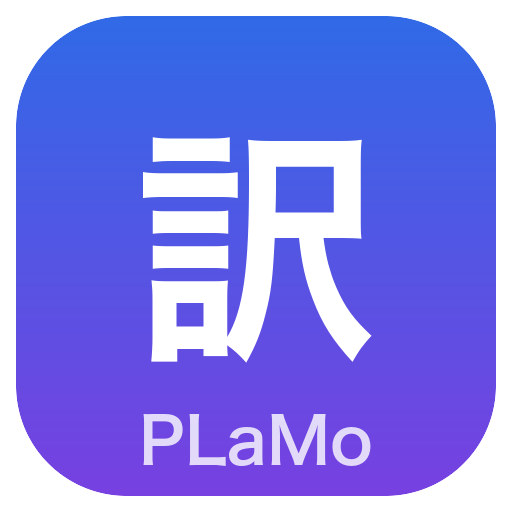
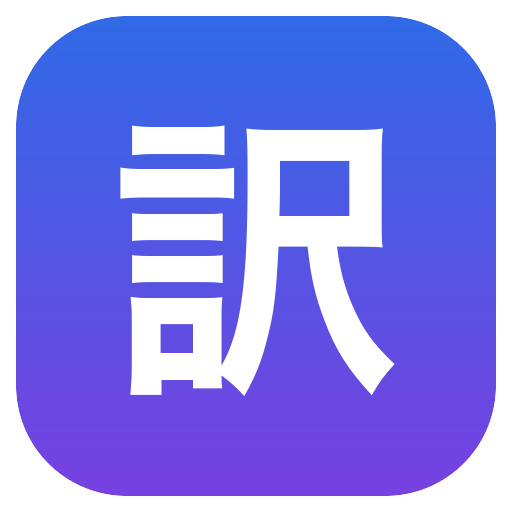
🚚 Rename to Local Translate
Drop PLaMo from the extension name and icon: the extension is not limited to
PLaMo, and the name belongs to Preferred Networks.

Changed region(s): [[0.2188, 0.2188, 0.7812, 0.9062]]

diff --git a/README.md b/README.md
@@ -1,4 +1,4 @@
-# Plamocast
+# Local Translate
 
 Raycast から日英・英日翻訳する拡張機能。既定ではローカルの [PLaMo 3 Translate](https://huggingface.co/collections/pfnet/plamo-3-translate)（LM Studio / Ollama）を自動検出して使い、Choose Model で他の LLM や DeepL に切り替えられる。[Deepcast](https://www.raycast.com/drwmrd/deepcast) のローカル LLM 版。
 
@@ -58,7 +58,7 @@ npm install
 npm run dev   # Raycast に開発版として登録される。登録後は Ctrl+C で止めても残る
 ```
 
-Raycast Settings → Extensions → Plamocast で各コマンドにホットキーを割り当てる。
+Raycast Settings → Extensions → Local Translate で各コマンドにホットキーを割り当てる。
 
 ### 開発
 

diff --git a/CHANGELOG.md b/CHANGELOG.md
@@ -1,4 +1,4 @@
-# Plamocast Changelog
+# Local Translate Changelog
 
 ## [Initial Version] - {PR_MERGE_DATE}
 
